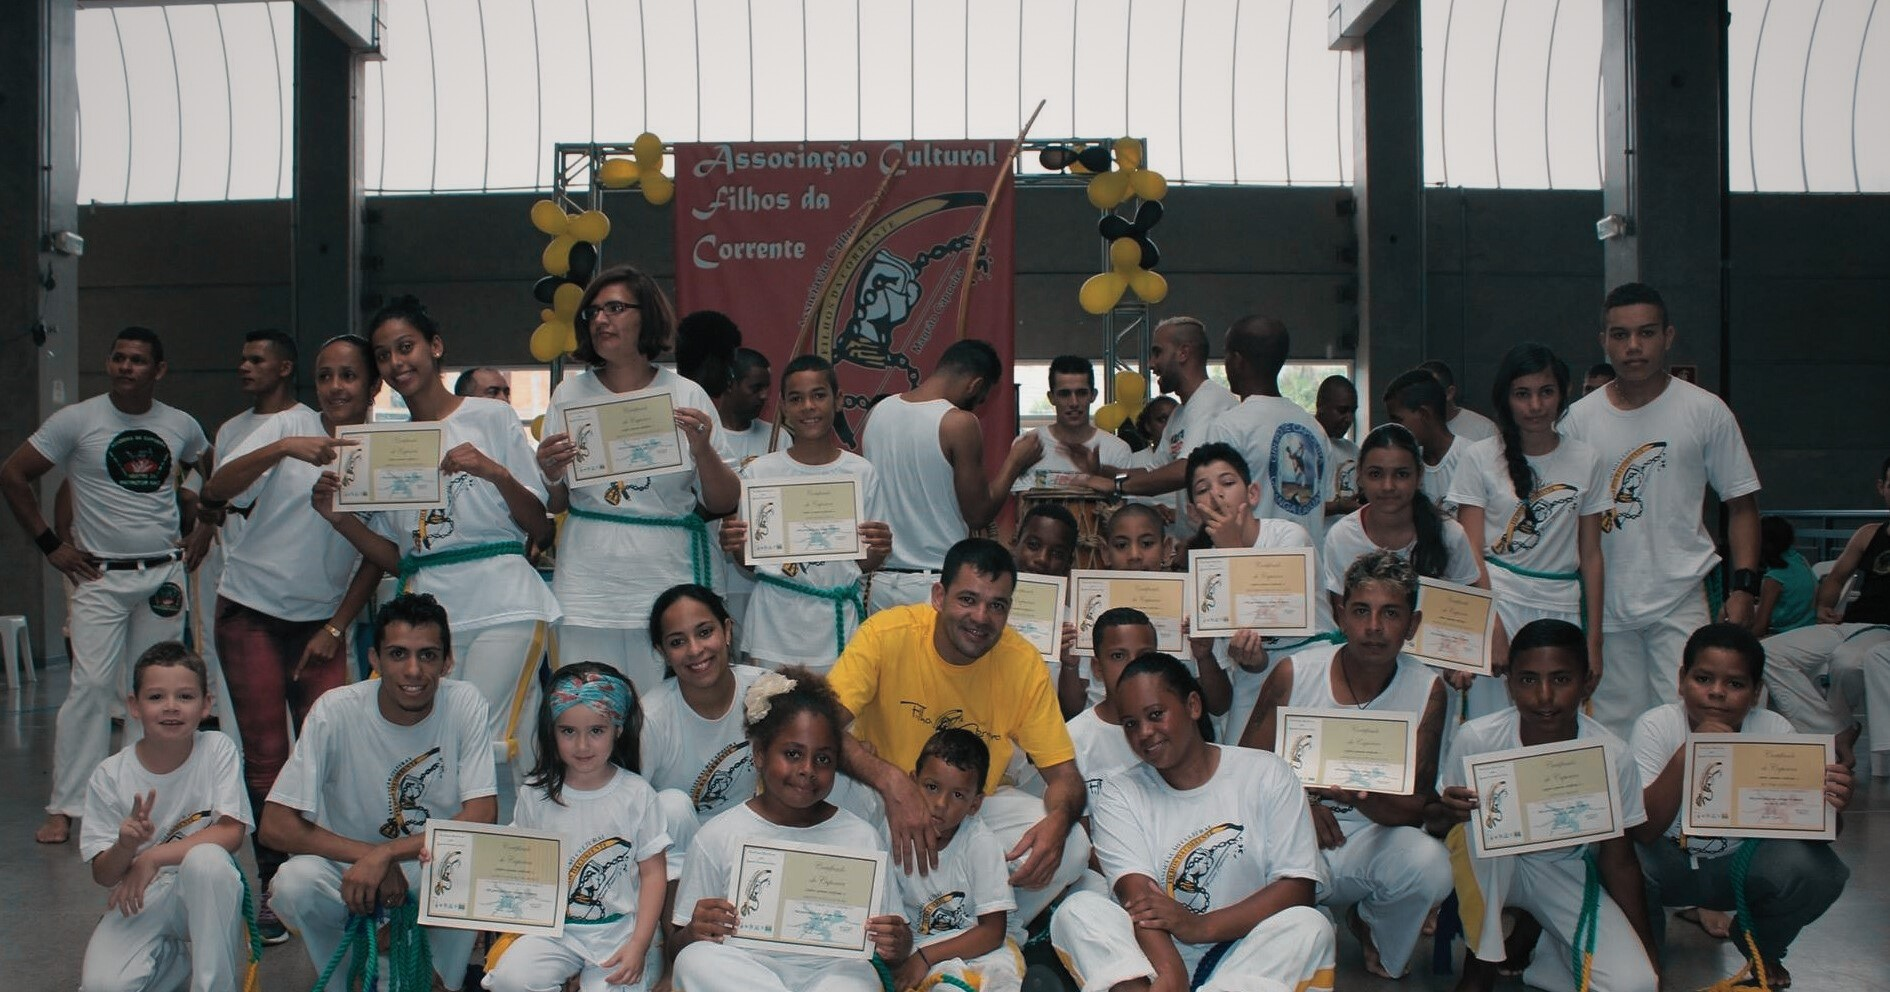
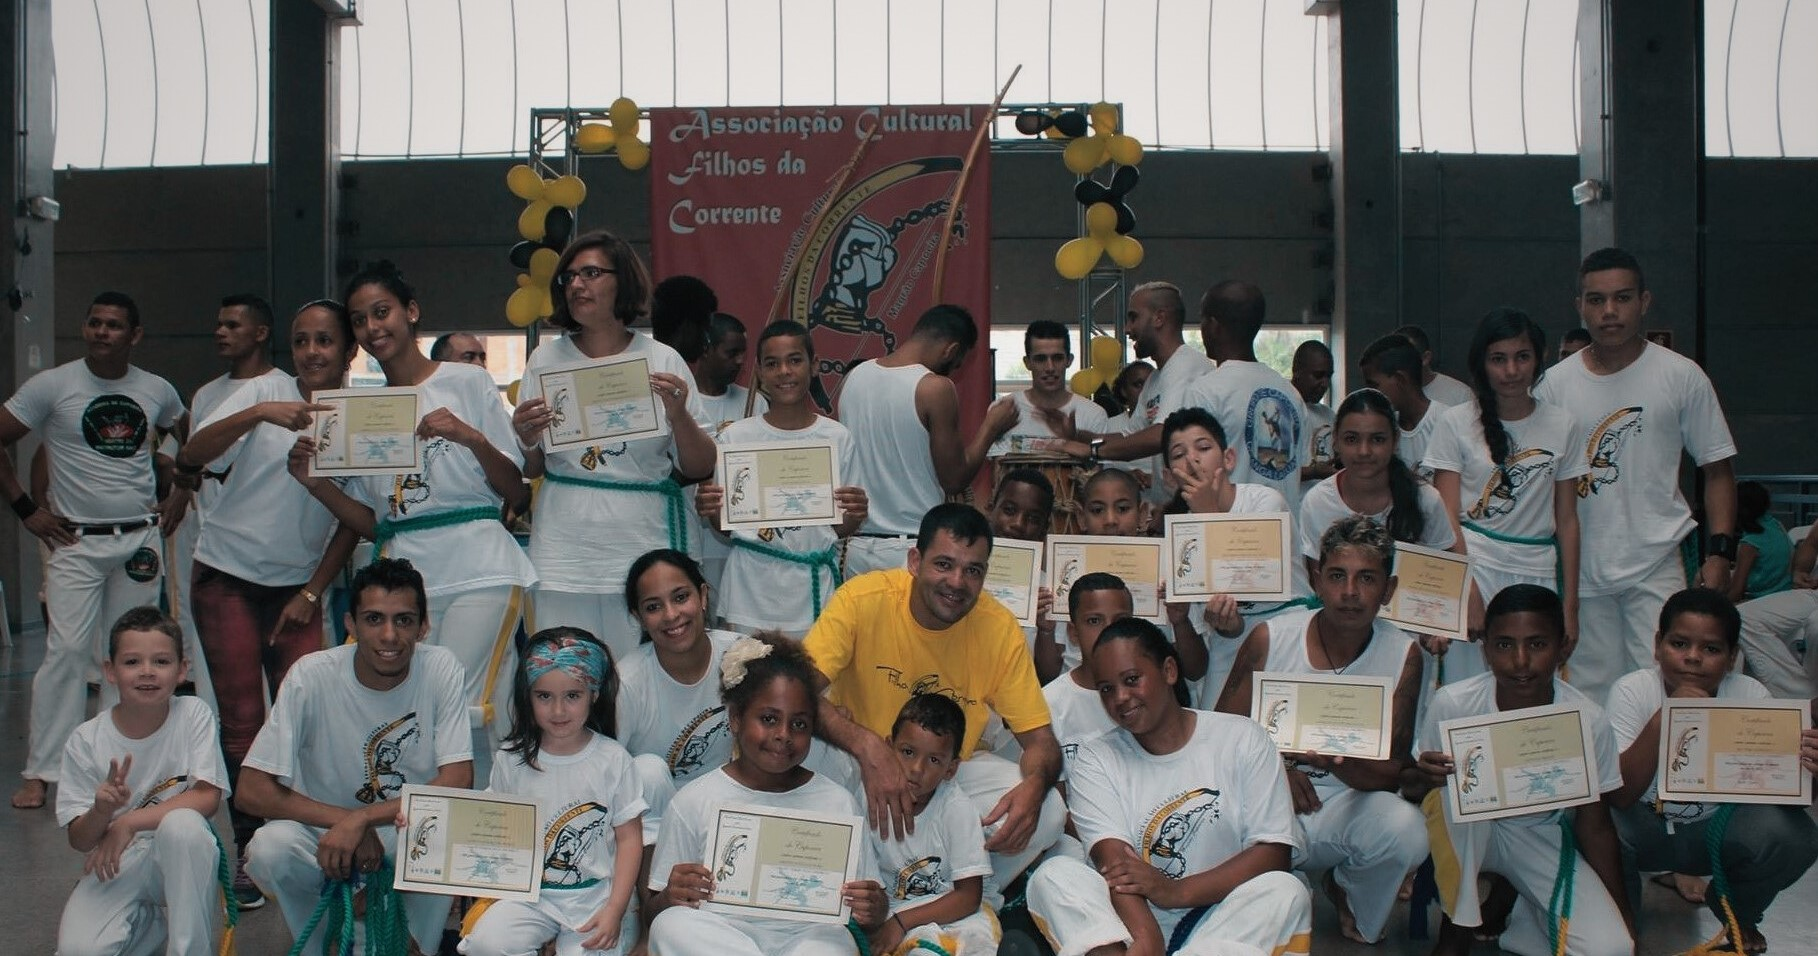
Correção no tamanho do background

diff --git a/css/style.css b/css/style.css
@@ -19,8 +19,9 @@ a {
     background-image: url('/imagens/associacaoMembros.jpg');
     background-repeat: no-repeat;
     background-size: cover;
+    background-position: center;
     width: 100%;
-    height: 992px;
+    height: 956px;
 }
 
 /*Barra de navegação*/
@@ -102,7 +103,7 @@ a {
     width: fit-content;
     color: white;
     font-family: sans-serif;
-    margin: 17.5% 0% 0% 11%;
+    margin: 17.5% 0% 0% 8%;
     background-color: rgb(252, 211, 30);
     border-radius: 12px;
     box-shadow: 7px 12px 5px 0px rgba(0, 0, 0, 0.777);
@@ -114,7 +115,7 @@ a {
     width: fit-content; 
     color: white;
     font-family: sans-serif;
-    margin: 1.8% 0% 0% 15%;
+    margin: 1.8% 0% 0% 16%;
     background-color: rgb(252, 211, 30);
     border-radius: 12px;
     box-shadow: 7px 12px 5px 0px rgba(0, 0, 0, 0.706);

diff --git a/html/index.html b/html/index.html
@@ -64,7 +64,7 @@
             <div id="association-name-style">
                 <div id="association-first-name">
                     <h1>
-                        ASSOCIAÇÃO
+                        ASSOCIAÇÃO CULTURAL
                     </h1>
                 </div>
                 <div>
